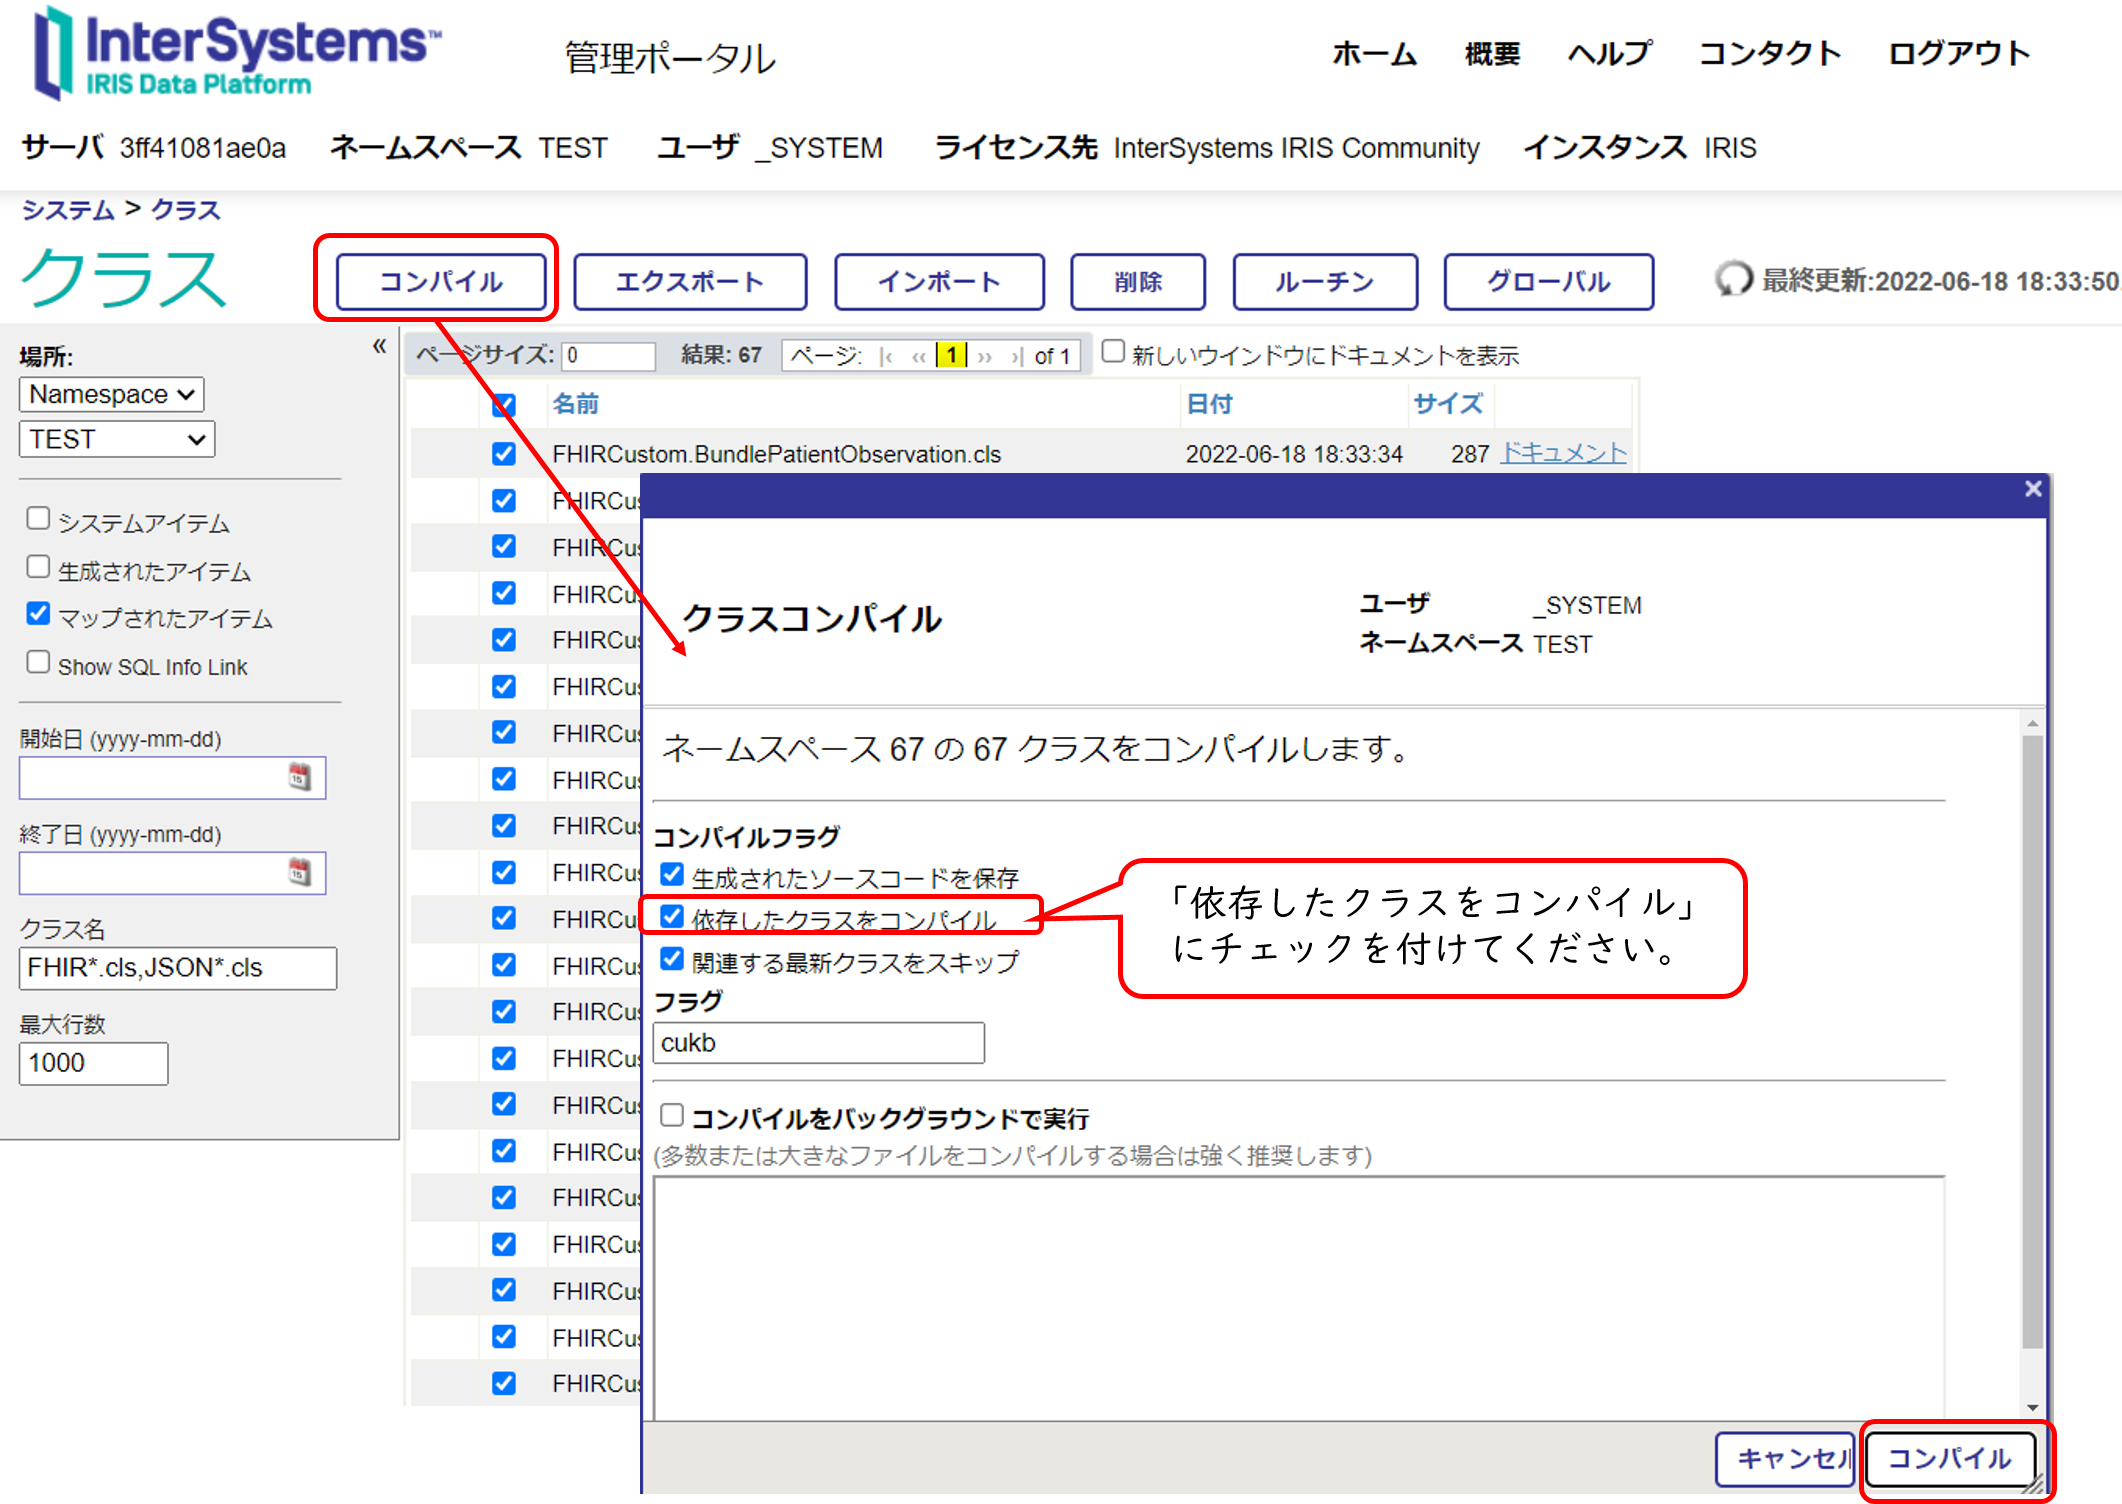
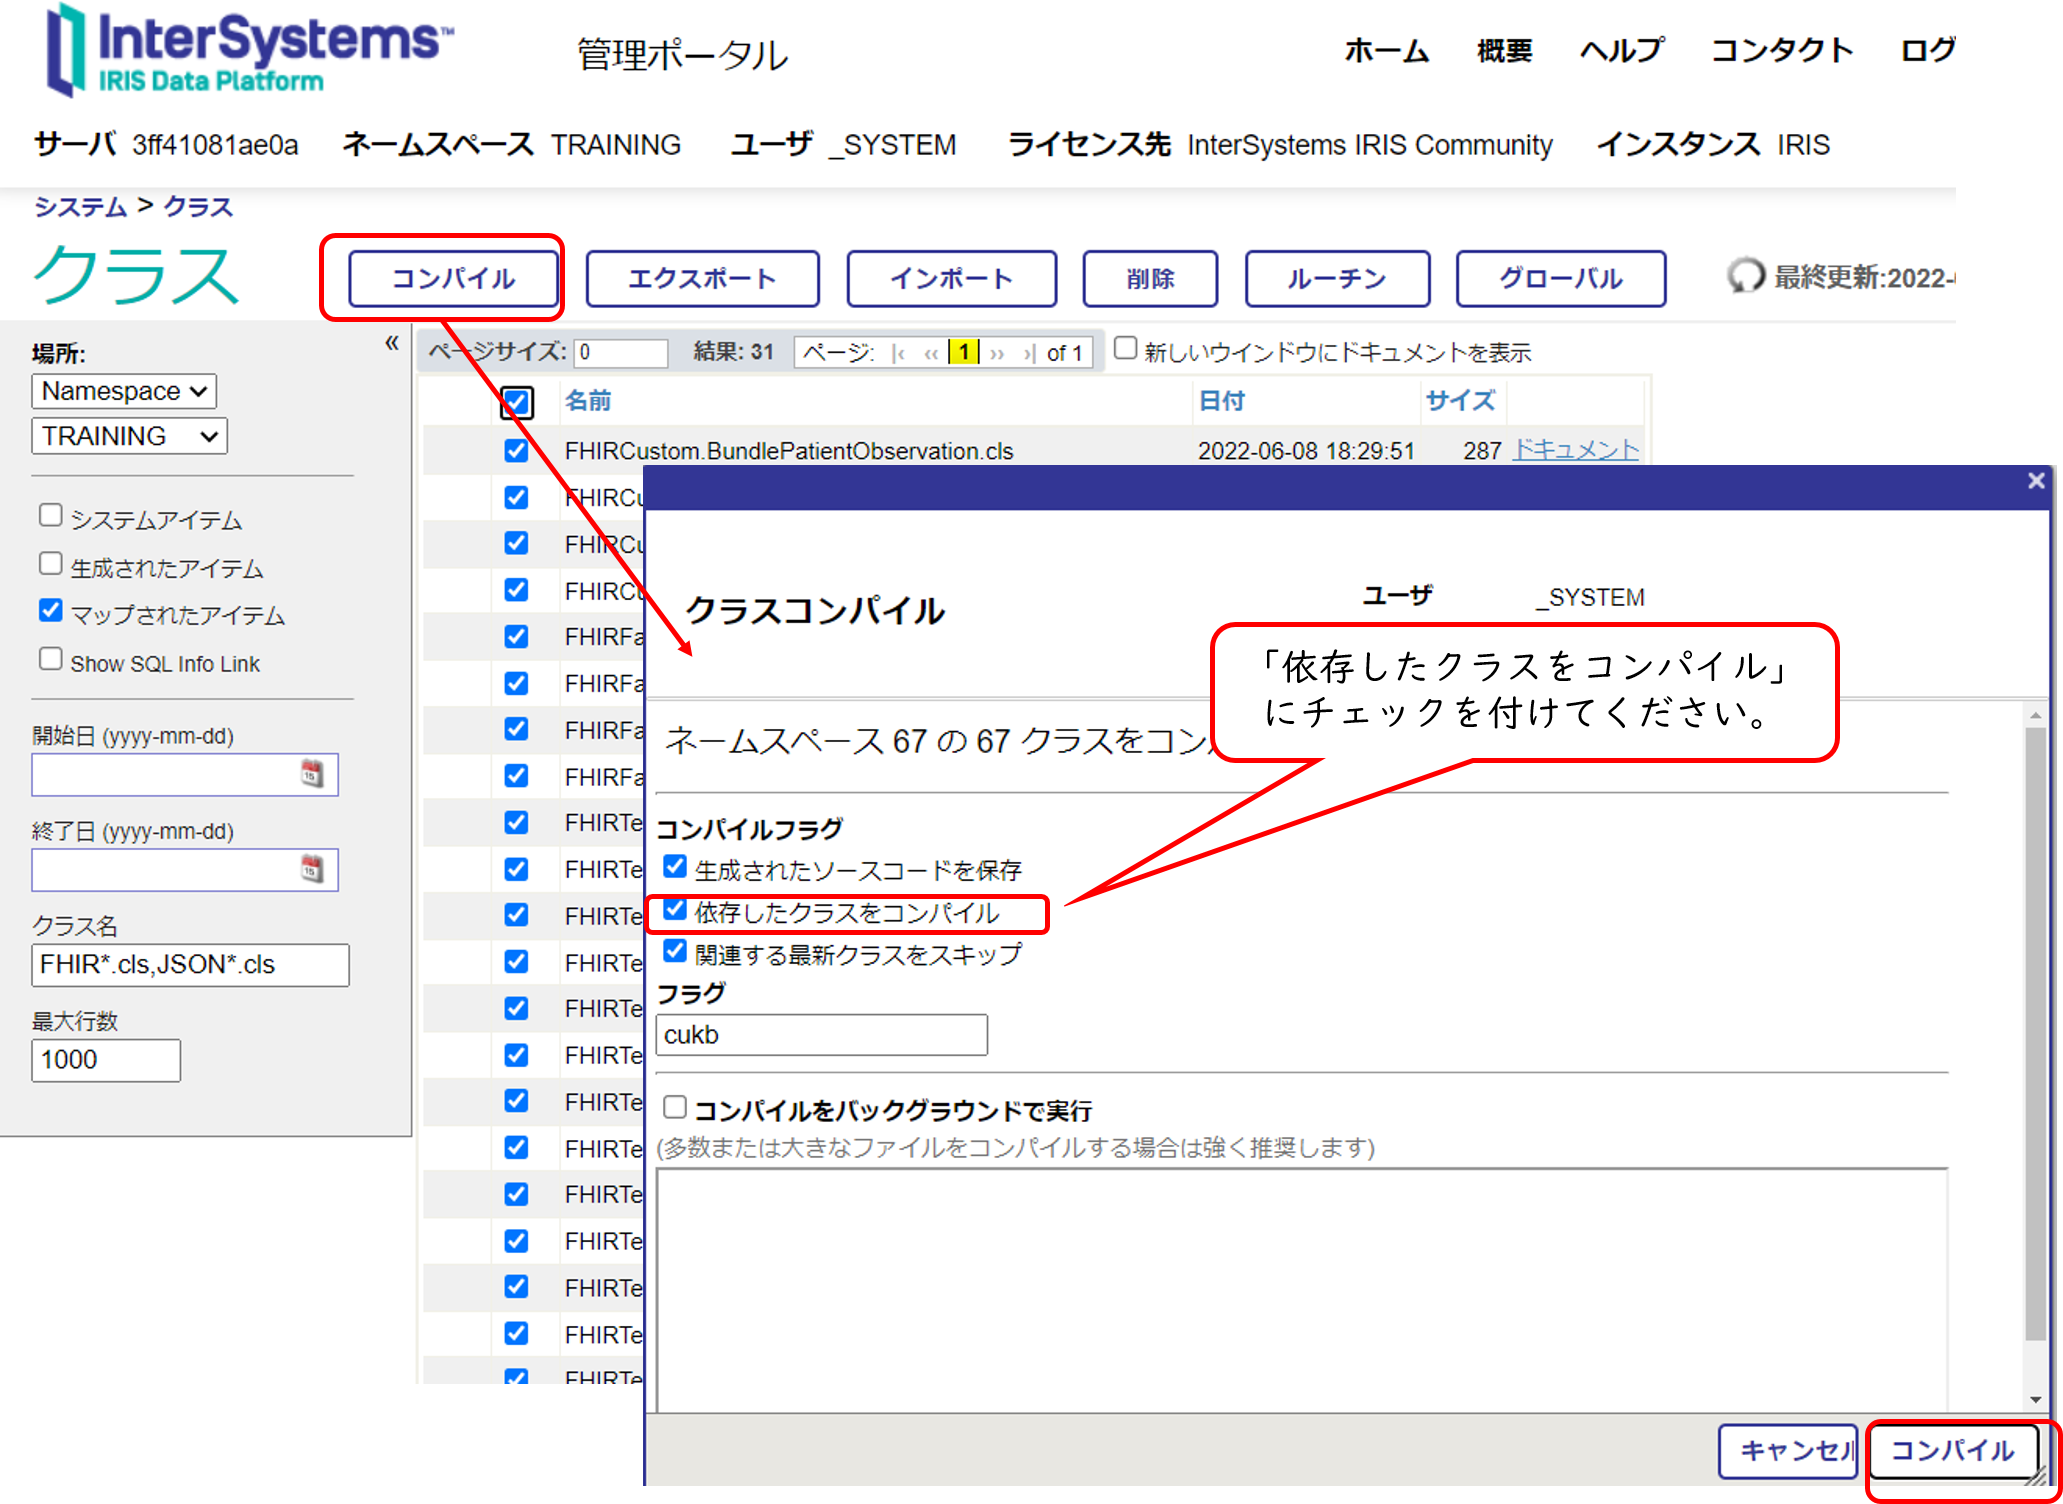
ネームスペース例修正

Changed region(s): [[0.0, 0.0, 1.0, 1.0], [0.0, 0.75, 0.1861, 0.7812]]

diff --git a/src/TRYSimpleFacade/README.md b/src/TRYSimpleFacade/README.md
@@ -66,10 +66,10 @@
         iris session iris
         ```
 
-        対象ネームスペースに移動します（例はTESTネームスペースへ移動）
+        対象ネームスペースに移動します（例はTRAININGネームスペースへ移動）
 
         ```
-        set $namespace="test"
+        set $namespace="TRAINING"
         ```
 
         コンパイルを実施します。
